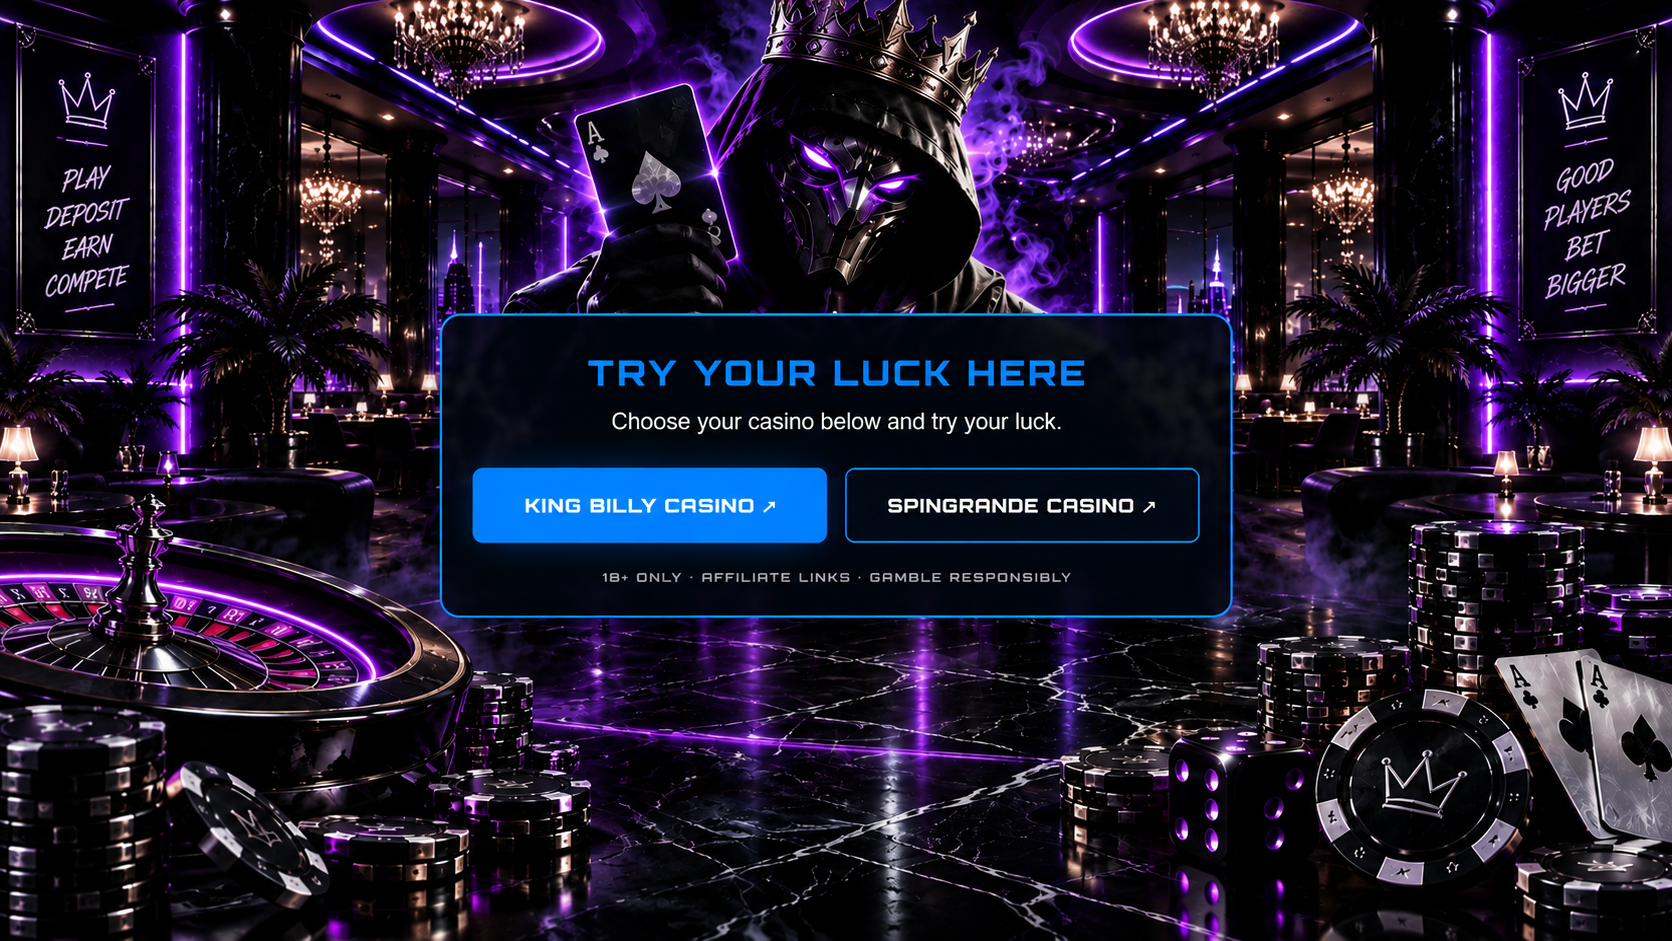
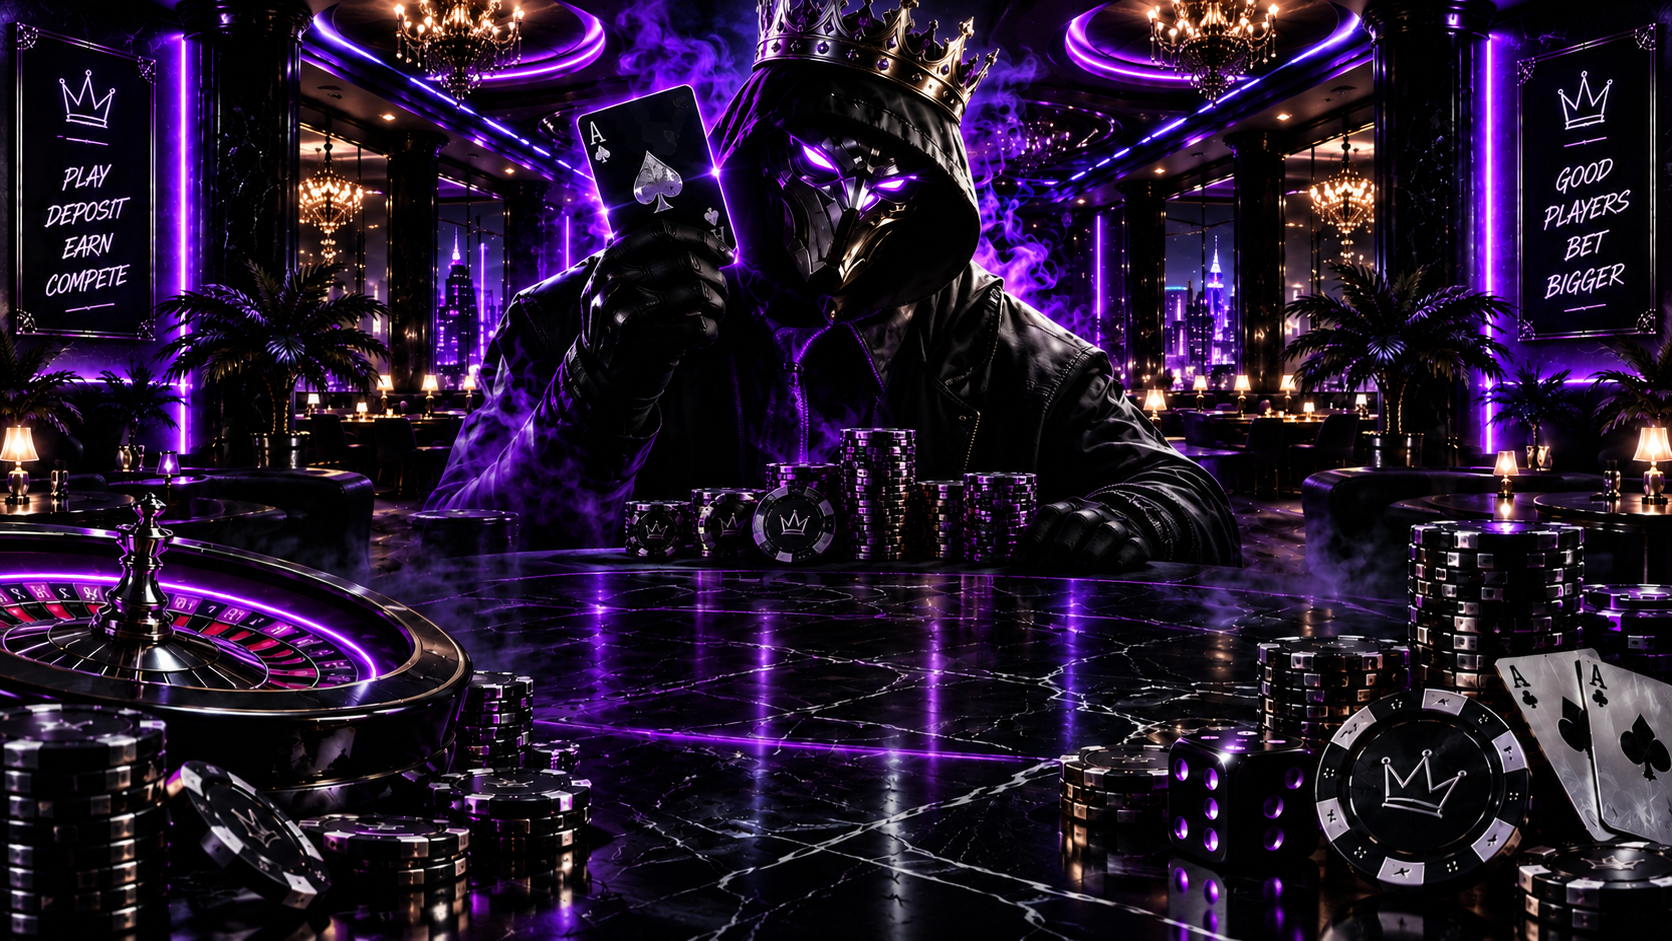
Add files via upload

diff --git a/style.css b/style.css
@@ -1134,3 +1134,67 @@ body.weekly-background footer{background:#020306;}
  body.weekly-background .weekly-section{padding-top:75px;}
  body.weekly-background .weekly-card{margin-left:12px;margin-right:12px;}
 }
+
+/* MOBILE BACKGROUND FIX - keep the cinematic backgrounds visible on every page */
+body.home-background main,
+body.casino-background main,
+body.competition-background main,
+body.leaderboard-background main,
+body.points-background main,
+body.weekly-background main{
+  position:relative;
+  isolation:isolate;
+  background-repeat:no-repeat;
+  background-position:center top;
+  background-size:cover;
+}
+body.home-background main::before,
+body.casino-background main::before,
+body.competition-background main::before,
+body.leaderboard-background main::before,
+body.points-background main::before,
+body.weekly-background main::before{
+  z-index:0;
+  background-position:center top;
+  background-size:cover !important;
+  background-repeat:no-repeat;
+}
+body.home-background main::after,
+body.casino-background main::after,
+body.competition-background main::after,
+body.leaderboard-background main::after,
+body.points-background main::after,
+body.weekly-background main::after{
+  z-index:0;
+}
+body.home-background main > *,
+body.casino-background main > *,
+body.competition-background main > *,
+body.leaderboard-background main > *,
+body.points-background main > *,
+body.weekly-background main > *{
+  position:relative;
+  z-index:1;
+}
+@media(max-width:800px){
+  body.home-background main,
+  body.casino-background main,
+  body.competition-background main,
+  body.leaderboard-background main,
+  body.points-background main,
+  body.weekly-background main{
+    min-height:calc(100vh - 72px);
+    background-size:cover;
+    background-position:center top;
+    overflow:hidden;
+  }
+  body.home-background main::before,
+  body.casino-background main::before,
+  body.competition-background main::before,
+  body.leaderboard-background main::before,
+  body.points-background main::before,
+  body.weekly-background main::before{
+    background-size:cover !important;
+    background-position:center top !important;
+  }
+}
